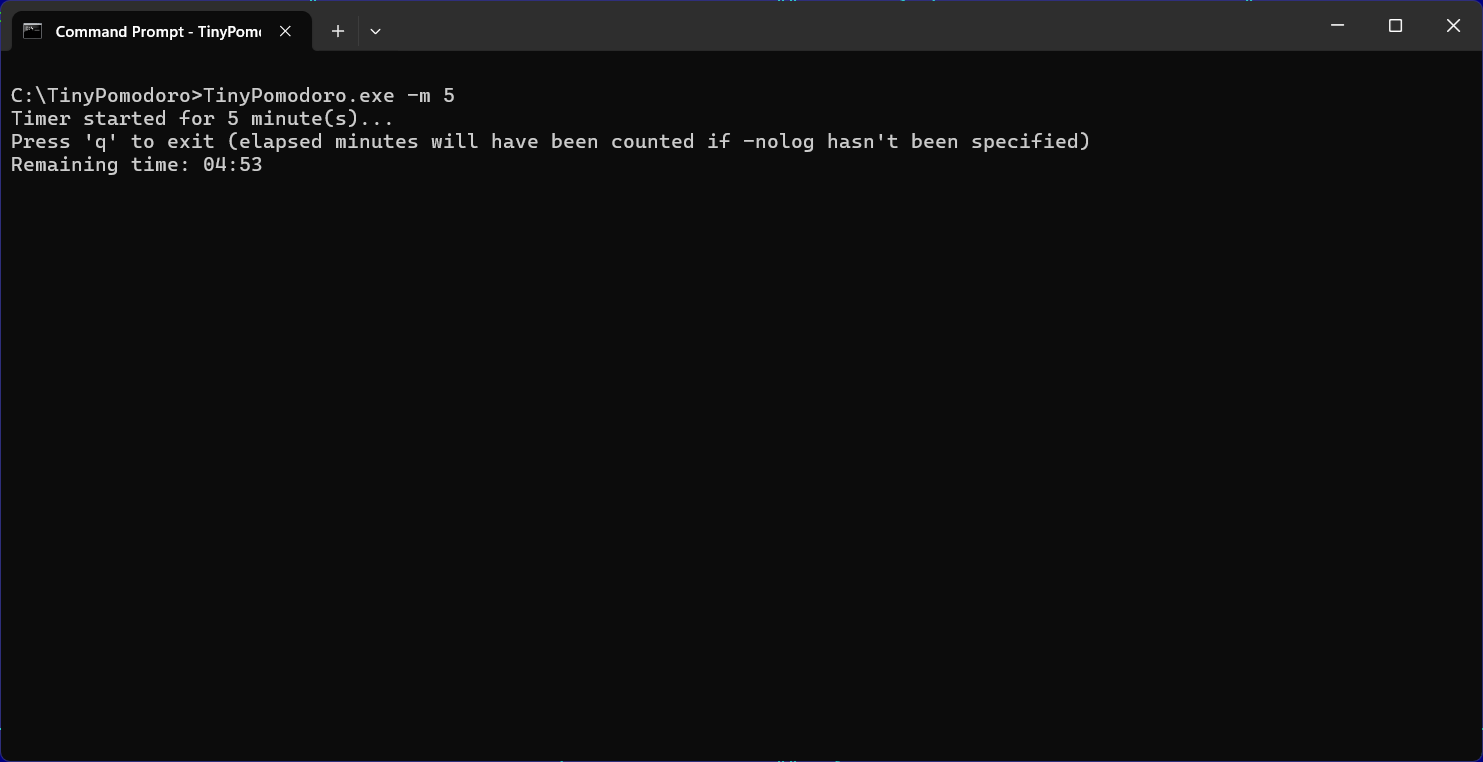
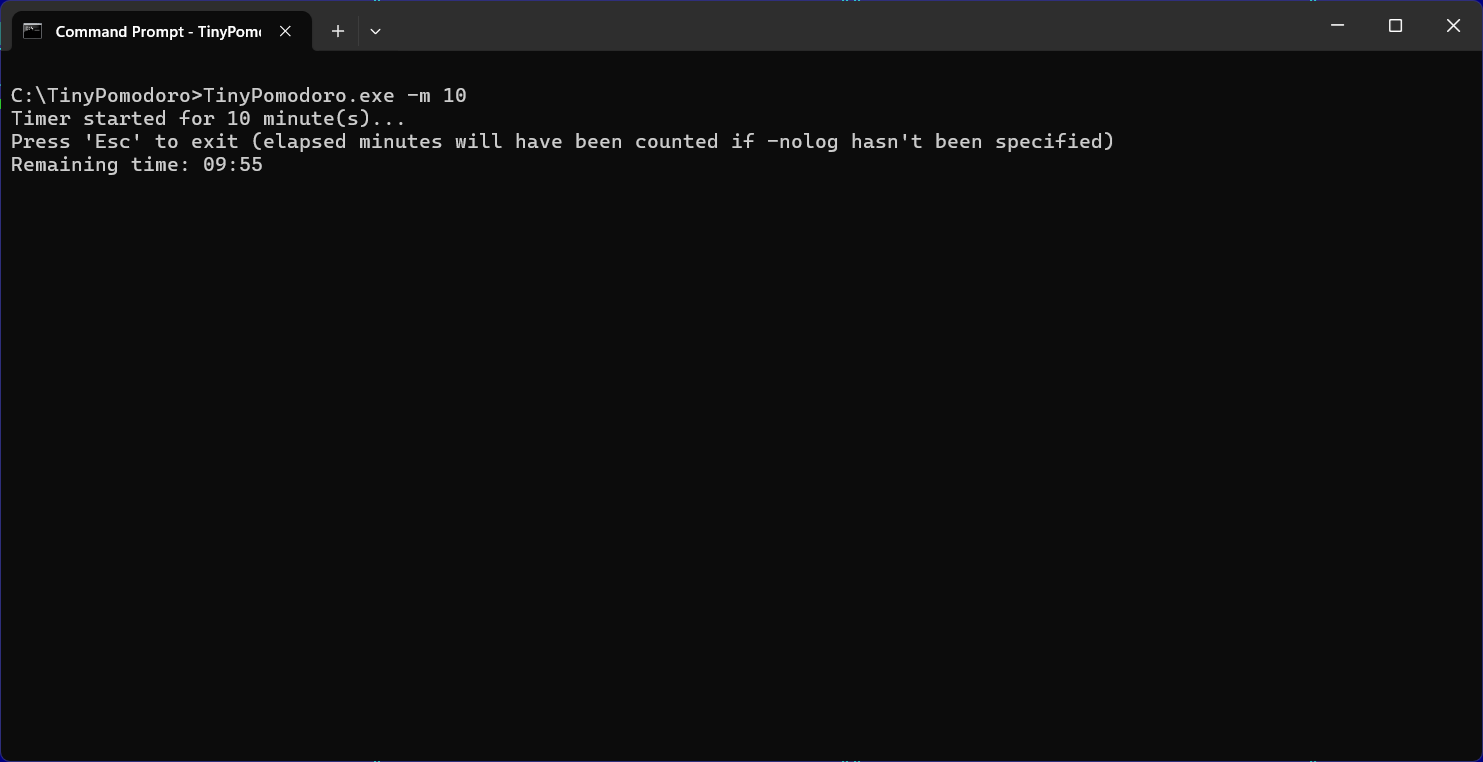
Refactor

Changed region(s): [[0.062, 0.1509, 0.7444, 0.2113], [0.2792, 0.1207, 0.3102, 0.1509]]

diff --git a/main.cpp b/main.cpp
@@ -11,7 +11,7 @@
 
 #include "bass.h"
 
-constexpr int default_time_minutes = 1;
+constexpr int default_time_minutes = 25;
 std::atomic<bool> timer_stopped{ false };
 
 void log_time(const std::string& foldername, int minutes_elapsed);
@@ -21,14 +21,14 @@ void input_job();
 
 int main(int argc, char* argv[]) {
 	if (!BASS_Init(-1, 44100, 0, 0, NULL)) {
-		std::cerr << "BASS_Init failed\n";
+		std::cout << "BASS_Init failed\n";
 		return 1;
 	}
 
 	std::string sound_filename = "bell-ding.mp3";
 	HSTREAM stream = BASS_StreamCreateFile(FALSE, sound_filename.c_str(), 0, 0, 0);
 	if (!stream) {
-		std::cerr << "BASS_StreamCreateFile failed" << sound_filename << std::endl;
+		std::cout << "BASS_StreamCreateFile failed" << sound_filename << std::endl;
 		BASS_Free();
 		return 1;
 	}
@@ -45,7 +45,7 @@ int main(int argc, char* argv[]) {
 			minutes = std::stoi(argv[minutes_index]);
 		}
 		catch (const std::invalid_argument& e) {
-			std::cerr << "Invalid input for minutes, using default of 25.\n";
+			std::cout << "Invalid input for minutes, using default of 25.\n";
 		}
 	}
 
@@ -67,7 +67,7 @@ int main(int argc, char* argv[]) {
 	}
 
 	if (!BASS_ChannelPlay(stream, FALSE)) {
-		std::cerr << "BASS: Can't play stream.\n";
+		std::cout << "BASS: Can't play stream.\n";
 		BASS_StreamFree(stream);
 		BASS_Free();
 		return 1;
@@ -112,7 +112,7 @@ std::string get_current_date_string() {
 
 int timer_job(int minutes) {
 	std::cout << "Timer started for " << minutes << " minute(s)...\n";
-	std::cout << "Press 'q' to exit (elapsed minutes will have been counted if -nolog hasn't been specified)\n";
+	std::cout << "Press 'Esc' to exit (elapsed minutes will have been counted if -nolog hasn't been specified)\n";
 
 	auto start = std::chrono::steady_clock::now();
 	auto end = start + std::chrono::minutes(minutes);
@@ -145,7 +145,7 @@ void input_job() {
 	while (!timer_stopped) {
 		if (_kbhit()) {
 			char c = _getch();
-			if (c == 'q') {
+			if (c == 0x1b) { // Esc.
 				timer_stopped = true; // Tell timer_job that timer has been stopped by user.
 				break;
 			}
